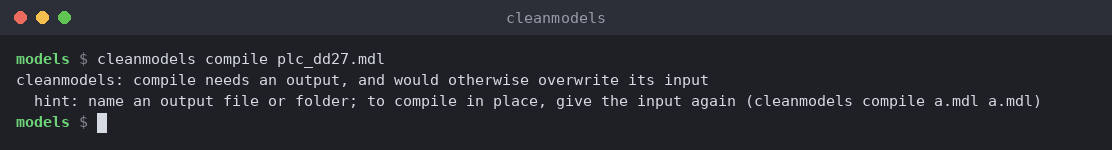
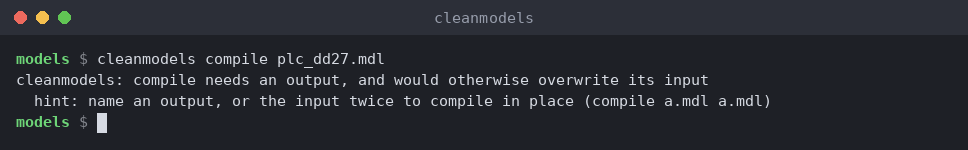
docs: re-take the compile-needs-an-output screenshot with the shorter hint
#64 shortened the hint to 84 characters; the screenshot still showed the old
115-character line that wrapped mid-word. Re-taken from a build of main, which
fits in 104 columns, and noted in the screenshots README that this one is from
after v4.2.0.

diff --git a/docs/screenshots/README.md b/docs/screenshots/README.md
@@ -1,6 +1,7 @@
 # Screenshots
 
-Images used in the README. They are renderings of real terminal output from cleanmodels v4.2.0:
+Images used in the README. They are renderings of real terminal output from cleanmodels v4.2.0
+(`compile-needs-output.png` shows the shorter hint added after it, in the next release):
 each command was run in a pseudo-terminal with colours on, and the resulting screen was drawn as a
 PNG. The title bar and the `models $` prompt are drawn by the script; the commands and everything
 they print are real.
